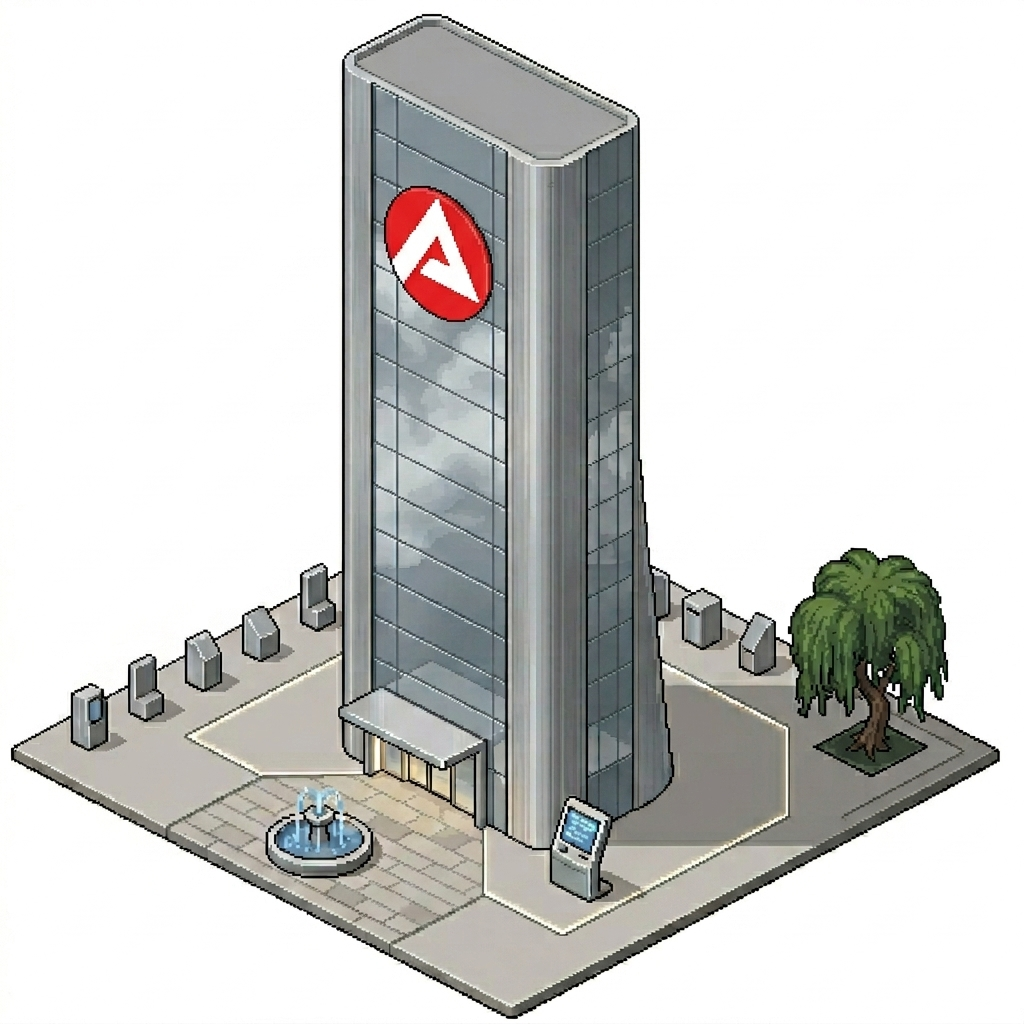
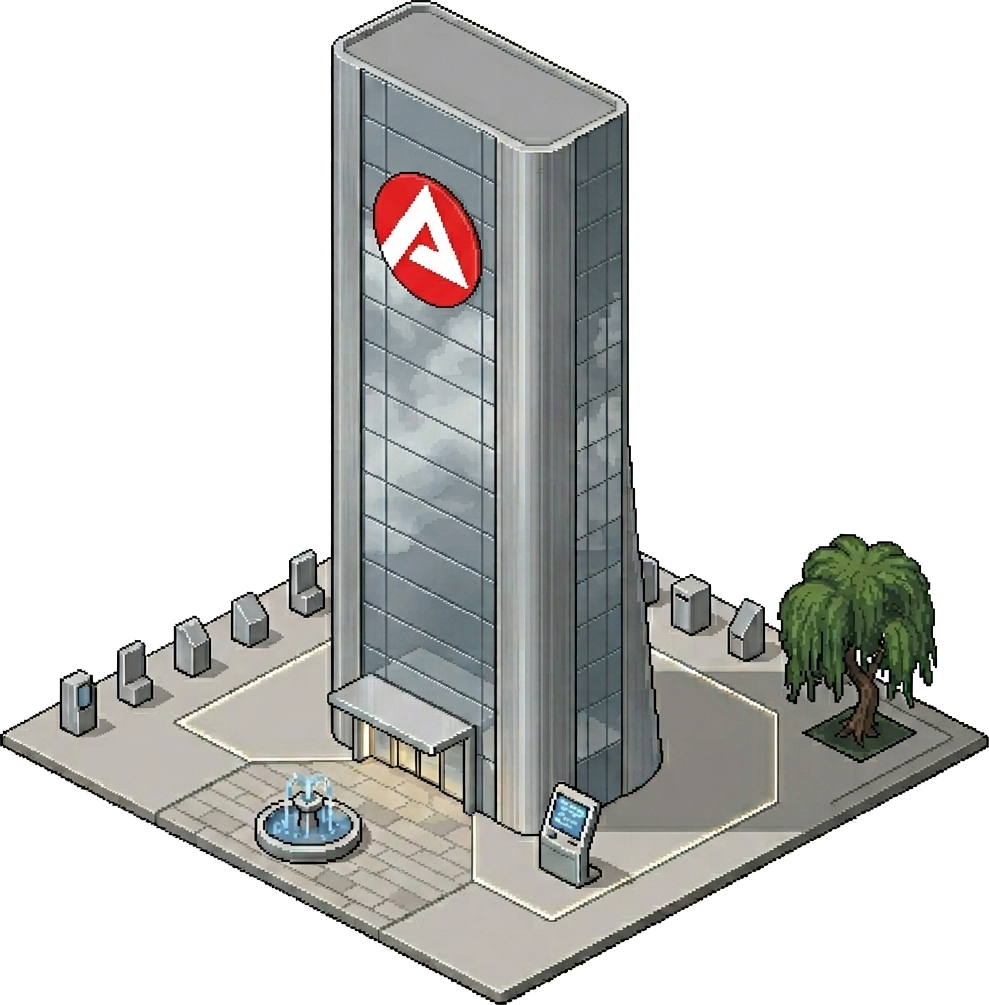
Alle Gebaeude als freigestellte PNGs einbauen
- tools/freistellen.py: zusaetzlicher colorkey-Modus (Hintergrund
  per Eckfarbe) fuer graue Hintergruende (Supermarkt) und helle
  Gebaeude (Arbeitsamt-Turm), die der neutral-Modus beschaedigt
- assets/buildings: bank, arbeitsamt, baustelle, amuesierbetrieb,
  casino_tag, casino_nacht, supermarkt freigestellt; Originale in source/
- script.js: BUILDING_SPRITES fuer alle 7 Orte (Casino = Neon-Nacht)

https://claude.ai/code/session_013HJSBZ8F1qv1i9bfF7Wrnj

Changed region(s): [[0.0, 0.0, 1.0, 1.0]]

diff --git a/script.js b/script.js
@@ -3901,7 +3901,13 @@ function zeichneStrassendeko(g, tileW, tileH, offsetX, offsetY) {
 //   dy      = Feinjustierung hoch/runter (Vielfaches von tileH)
 // ================================================================
 const BUILDING_SPRITES = {
-  pawn: { file: 'assets/buildings/pfandleiher.png', breite: 1.75, ankerY: 0.86, dy: 0.10 },
+  bank:       { file: 'assets/buildings/bank.png',           breite: 1.75, ankerY: 0.86, dy: 0.10 },
+  arbeitsamt: { file: 'assets/buildings/arbeitsamt.png',     breite: 1.95, ankerY: 0.92, dy: 0.04 },
+  baustelle:  { file: 'assets/buildings/baustelle.png',      breite: 1.80, ankerY: 0.86, dy: 0.10 },
+  pawn:       { file: 'assets/buildings/pfandleiher.png',    breite: 1.75, ankerY: 0.86, dy: 0.10 },
+  amuesier:   { file: 'assets/buildings/amuesierbetrieb.png', breite: 1.75, ankerY: 0.86, dy: 0.10 },
+  kasino:     { file: 'assets/buildings/casino_nacht.png',   breite: 1.90, ankerY: 0.86, dy: 0.08 },
+  supermarkt: { file: 'assets/buildings/supermarkt.png',     breite: 1.55, ankerY: 0.88, dy: 0.06 },
 };
 
 // ================================================================

diff --git a/tools/freistellen.py b/tools/freistellen.py
@@ -1,96 +1,106 @@
 #!/usr/bin/env python3
-"""Stellt Gebaeude-Grafiken frei: weisser/hellgrauer Hintergrund + Schatten
-werden transparent. Per Flood-Fill von den Bildraendern, damit helle
-GEBAEUDE-Innenflaechen (Bank, Arbeitsamt) erhalten bleiben.
+"""Stellt Gebaeude-Grafiken frei (Hintergrund -> transparent).
+
+Zwei Modi:
+  neutral  : Hintergrund ist weiss; grauer Schatten wird halbtransparent.
+             Gut fuer die meisten Gebaeude.
+  colorkey : Hintergrund wird anhand der ECKFARBE bestimmt und entfernt.
+             Gut fuer graue Hintergruende (Supermarkt) und helle Gebaeude
+             mit hellem Dach (Arbeitsamt-Turm), die 'neutral' beschaedigen wuerde.
+
+Per Flood-Fill von den Bildraendern, damit Innenflaechen des Gebaeudes
+erhalten bleiben.
 """
 import sys
 from collections import deque
 from PIL import Image
 
-def freistellen(src, dst, lum_thresh=140, sat_thresh=16, white_thresh=205,
-                feather=True):
-    img = Image.open(src).convert("RGBA")
+
+def _flood(img, is_bg):
     w, h = img.size
     px = img.load()
-
-    def is_bg(r, g, b):
-        # neutral-hell (weiss ODER grauer Schatten) -> Hintergrund
-        mx, mn = max(r, g, b), min(r, g, b)
-        return mx >= lum_thresh and (mx - mn) <= sat_thresh
-
-    bg = bytearray(w * h)          # 1 = Hintergrund
+    bg = bytearray(w * h)
     seen = bytearray(w * h)
     dq = deque()
 
-    # Startpunkte: alle Randpixel, die als Hintergrund gelten
+    def push(x, y):
+        i = y * w + x
+        if not seen[i]:
+            seen[i] = 1
+            r, g, b, _ = px[x, y]
+            if is_bg(r, g, b):
+                bg[i] = 1
+                dq.append((x, y))
+
     for x in range(w):
-        for y in (0, h - 1):
-            i = y * w + x
-            if not seen[i]:
-                seen[i] = 1
-                r, g, b, _ = px[x, y]
-                if is_bg(r, g, b):
-                    bg[i] = 1; dq.append((x, y))
+        push(x, 0); push(x, h - 1)
     for y in range(h):
-        for x in (0, w - 1):
-            i = y * w + x
-            if not seen[i]:
-                seen[i] = 1
-                r, g, b, _ = px[x, y]
-                if is_bg(r, g, b):
-                    bg[i] = 1; dq.append((x, y))
+        push(0, y); push(w - 1, y)
 
     while dq:
         x, y = dq.popleft()
-        for dx, dy in ((1,0),(-1,0),(0,1),(0,-1)):
-            nx, ny = x+dx, y+dy
-            if 0 <= nx < w and 0 <= ny < h:
-                ni = ny*w + nx
-                if not seen[ni]:
-                    seen[ni] = 1
-                    r, g, b, _ = px[nx, ny]
-                    if is_bg(r, g, b):
-                        bg[ni] = 1; dq.append((nx, ny))
+        for dx, dy in ((1, 0), (-1, 0), (0, 1), (0, -1)):
+            nx, ny = x + dx, y + dy
+            if 0 <= nx < w and 0 <= ny < h and not seen[ny * w + nx]:
+                push(nx, ny)
+    return bg, px, w, h
 
-    # Hintergrund verarbeiten:
-    #  - sehr hell (weiss)  -> voll transparent
-    #  - grauer Schatten    -> halbtransparentes Schwarz (echter Schatten)
+
+def freistellen(src, dst, mode="neutral",
+                lum_thresh=140, sat_thresh=16, white_thresh=205,
+                tol=55, feather=True):
+    img = Image.open(src).convert("RGBA")
+
+    if mode == "colorkey":
+        # Hintergrundfarbe aus den vier Ecken mitteln
+        w, h = img.size
+        px0 = img.load()
+        corners = [px0[0, 0], px0[w - 1, 0], px0[0, h - 1], px0[w - 1, h - 1]]
+        br = sum(c[0] for c in corners) / 4
+        bgc = sum(c[1] for c in corners) / 4
+        bb = sum(c[2] for c in corners) / 4
+
+        def is_bg(r, g, b):
+            return abs(r - br) + abs(g - bgc) + abs(b - bb) <= tol
+    else:
+        def is_bg(r, g, b):
+            mx, mn = max(r, g, b), min(r, g, b)
+            return mx >= lum_thresh and (mx - mn) <= sat_thresh
+
+    bg, px, w, h = _flood(img, is_bg)
+
     for y in range(h):
         for x in range(w):
-            if bg[y*w + x]:
+            if bg[y * w + x]:
                 r, g, b, _ = px[x, y]
                 mx = max(r, g, b)
-                if mx >= white_thresh:
-                    px[x, y] = (0, 0, 0, 0)
+                if mode == "colorkey" or mx >= white_thresh:
+                    px[x, y] = (0, 0, 0, 0)            # voll transparent
                 else:
-                    # je dunkler der Schatten, desto deckender (max ~110)
                     a = int(min(110, (white_thresh - mx) * 1.4))
-                    px[x, y] = (0, 0, 0, a)
+                    px[x, y] = (0, 0, 0, a)            # weicher Schatten
 
-    # Weiche Kante: Vordergrund-Pixel, die an Hintergrund grenzen,
-    # bekommen je nach Helligkeit etwas Teiltransparenz (Anti-Aliasing).
     if feather:
         for y in range(h):
             for x in range(w):
-                i = y*w + x
+                i = y * w + x
                 if bg[i]:
                     continue
                 r, g, b, a = px[x, y]
                 if a == 0:
                     continue
-                rand = any(0 <= x+dx < w and 0 <= y+dy < h and bg[(y+dy)*w + (x+dx)]
-                           for dx, dy in ((1,0),(-1,0),(0,1),(0,-1)))
-                if rand:
-                    mx = max(r, g, b)
-                    if mx >= lum_thresh - 20:
-                        px[x, y] = (r, g, b, 150)
+                rand = any(0 <= x + dx < w and 0 <= y + dy < h and bg[(y + dy) * w + (x + dx)]
+                           for dx, dy in ((1, 0), (-1, 0), (0, 1), (0, -1)))
+                if rand and max(r, g, b) >= lum_thresh - 20:
+                    px[x, y] = (r, g, b, 150)
 
-    # Auf den tatsaechlichen Inhalt zuschneiden (transparenter Rand weg)
     bbox = img.getbbox()
     if bbox:
         img = img.crop(bbox)
     img.save(dst)
-    print(f"OK  {src} -> {dst}  ({img.size[0]}x{img.size[1]})")
+    print(f"OK [{mode:8s}] {src.split('/')[-1]:22s} -> {img.size[0]}x{img.size[1]}")
+
 
 if __name__ == "__main__":
-    freistellen(sys.argv[1], sys.argv[2])
+    mode = sys.argv[3] if len(sys.argv) > 3 else "neutral"
+    freistellen(sys.argv[1], sys.argv[2], mode=mode)
